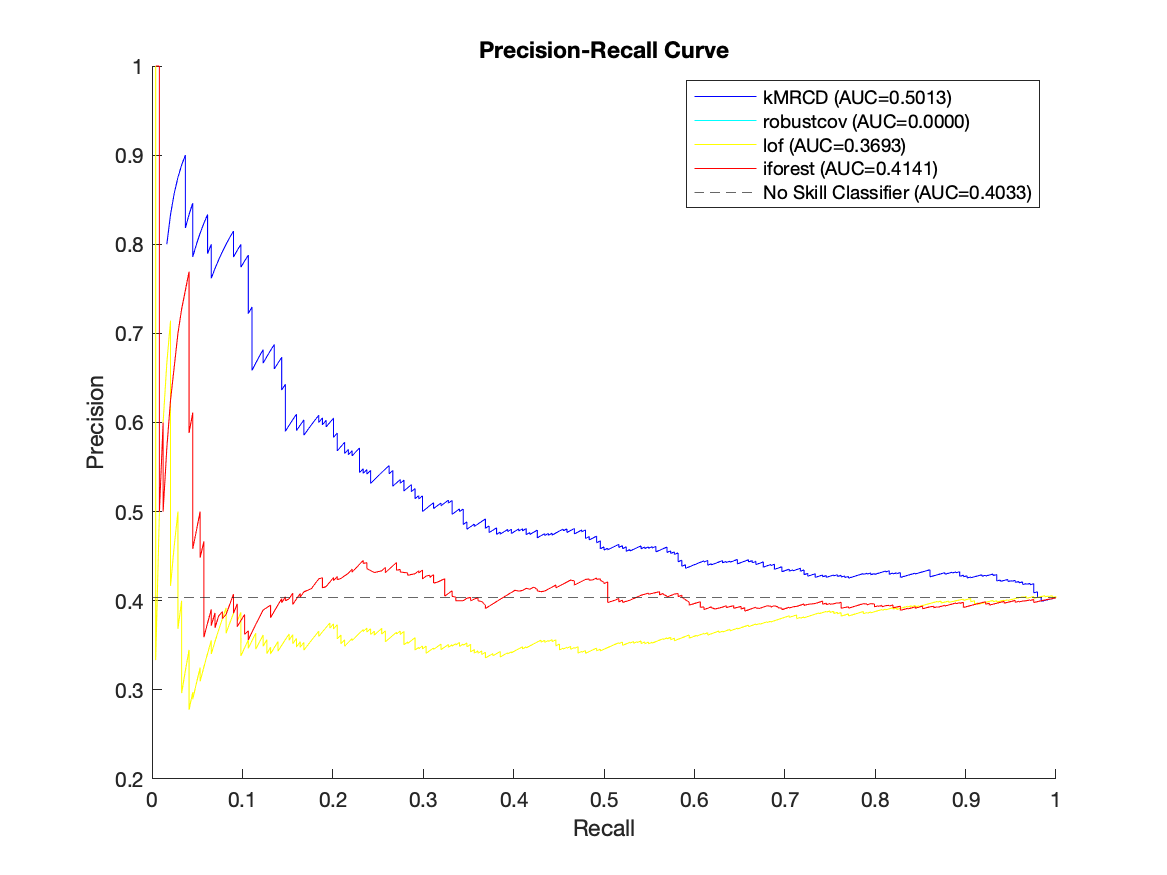
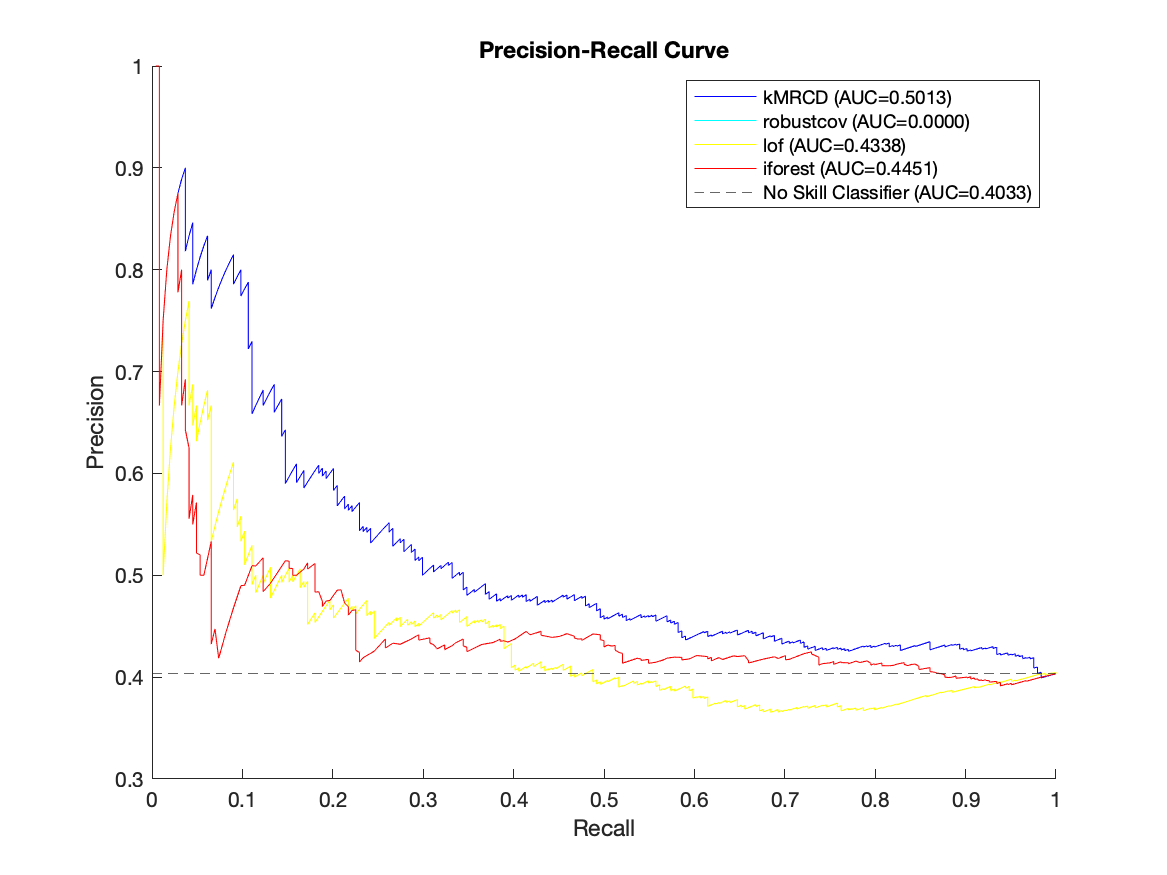
fix: set categorical predictors

diff --git a/thesis/careless_responding/careless_responding.m b/thesis/careless_responding/careless_responding.m
@@ -90,7 +90,7 @@ saveas(fig, fullfile(imageDir, 'mahalanobis_distances.png'),'png');
 
 % Comparison
 fig = figure(4);
-stats = evaluation(unlabeledData, labels, alpha, solution);
+stats = evaluation(unlabeledData, labels, alpha, solution, CategoricalPredictors="all");
 saveas(fig, fullfile(imageDir, 'pr_curve.png'),'png');
 writetable(stats, fullfile(tableDir, "comparison.csv"));
 
